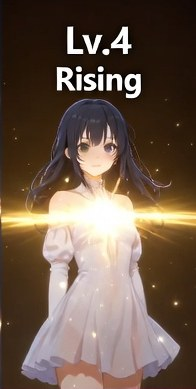
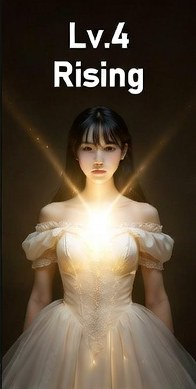
女性版レベル画像を差し替え

diff --git a/sw.js b/sw.js
@@ -1,4 +1,4 @@
-const CACHE_NAME = 'onakinn-v12';
+const CACHE_NAME = 'onakinn-v13';
 const ASSETS = [
   './index.html',
   './style.css',
